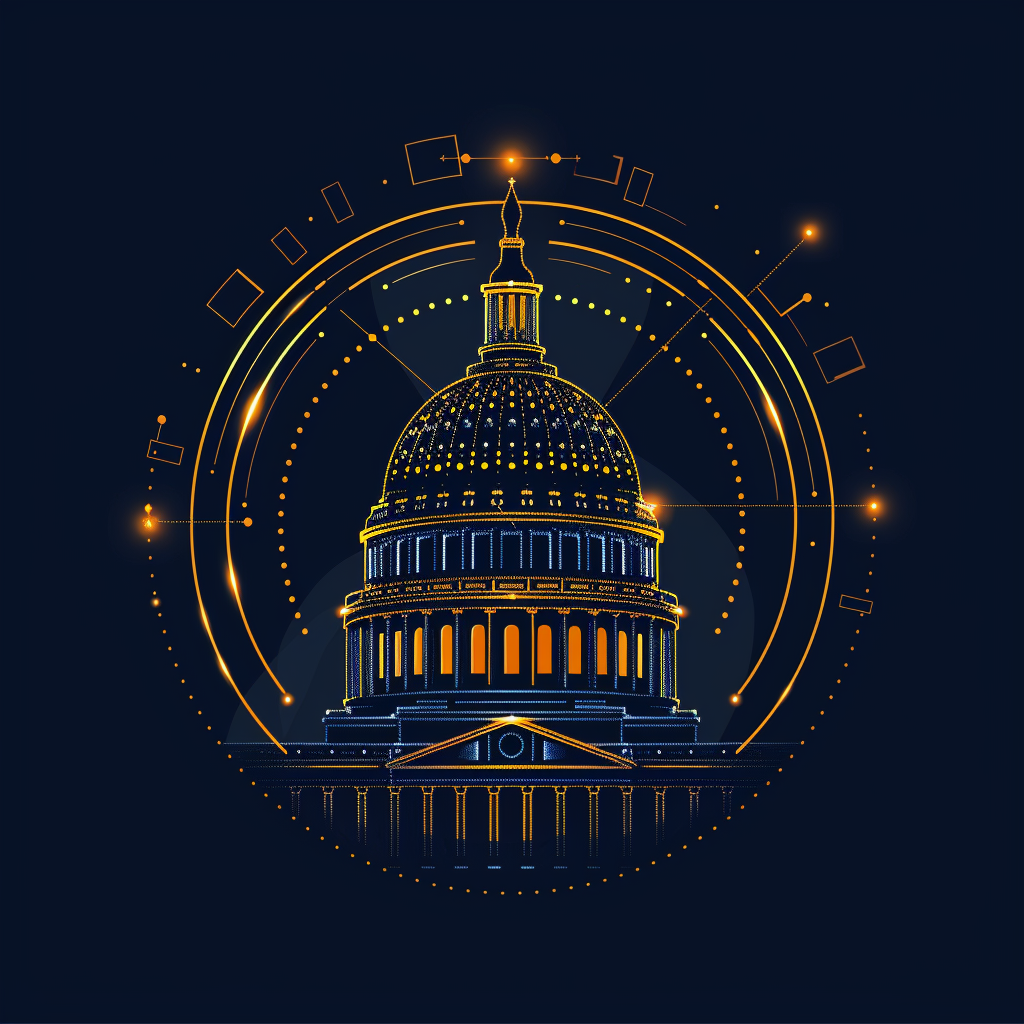
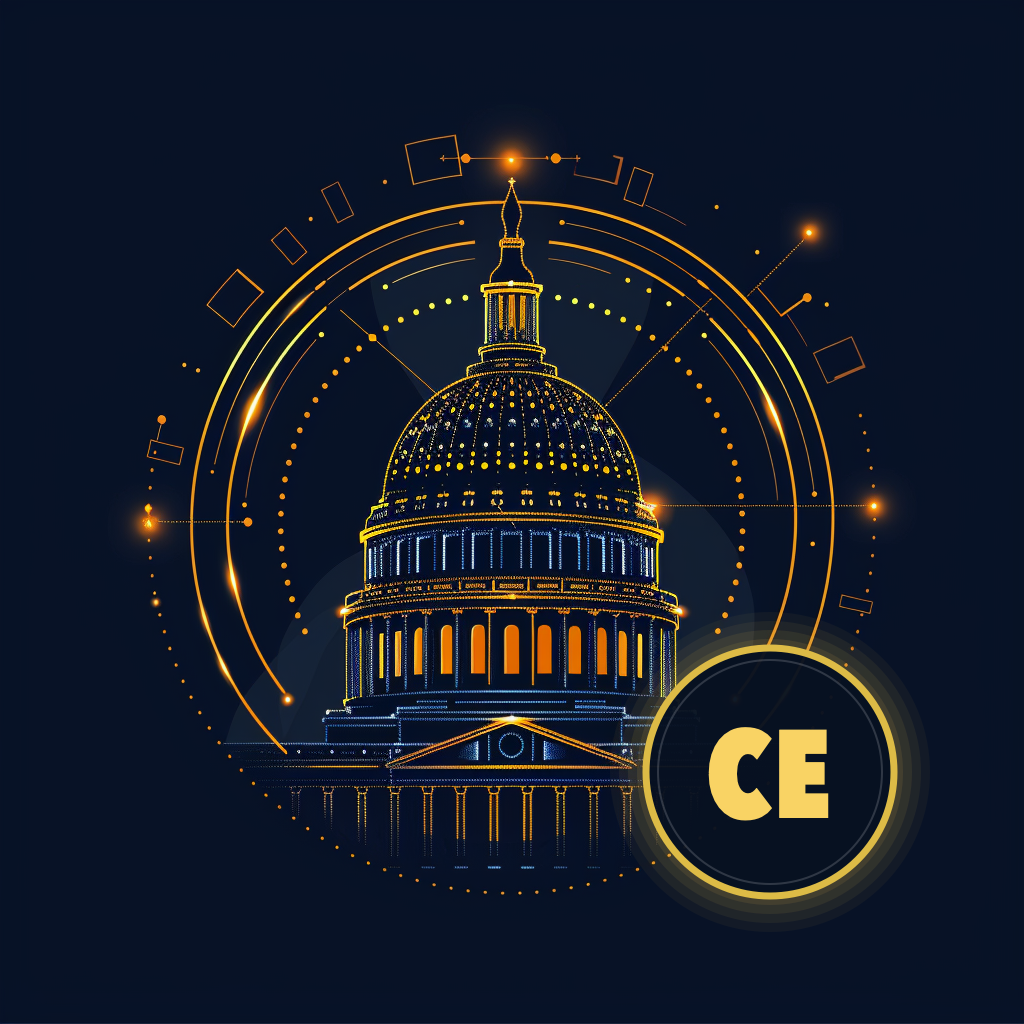
Update Capitol Ledger CE branding

Changed region(s): [[0.5938, 0.5938, 0.9062, 0.9062]]

diff --git a/app/globals.css b/app/globals.css
@@ -72,7 +72,7 @@ select {
 }
 
 .surface {
-  border: 1px solid rgba(246, 216, 75, 0.18);
+  border: 1px solid rgba(212, 175, 55, 0.18);
   background:
     linear-gradient(145deg, rgba(255, 255, 255, 0.12), rgba(255, 255, 255, 0.035)),
     linear-gradient(180deg, rgba(43, 141, 255, 0.1), rgba(7, 18, 37, 0.22));
@@ -82,7 +82,7 @@ select {
 
 .metric-bar {
   background:
-    linear-gradient(90deg, rgba(246, 216, 75, 0.58), rgba(43, 141, 255, 0.58)),
+    linear-gradient(90deg, rgba(212, 175, 55, 0.6), rgba(43, 141, 255, 0.58)),
     repeating-linear-gradient(90deg, transparent 0 18px, rgba(234, 242, 255, 0.08) 18px 19px);
 }
 
@@ -90,12 +90,12 @@ select {
   min-height: calc(100vh - 4rem);
   background:
     radial-gradient(circle at 14% 12%, rgba(43, 141, 255, 0.2), transparent 22rem),
-    radial-gradient(circle at 86% 8%, rgba(246, 216, 75, 0.12), transparent 20rem),
+    radial-gradient(circle at 86% 8%, rgba(212, 175, 55, 0.13), transparent 20rem),
     linear-gradient(180deg, rgba(8, 24, 44, 0.62), rgba(2, 9, 22, 0.96));
 }
 
 .glass-card {
-  border: 1px solid rgba(246, 216, 75, 0.18);
+  border: 1px solid rgba(212, 175, 55, 0.18);
   background:
     linear-gradient(145deg, rgba(255, 255, 255, 0.13), rgba(255, 255, 255, 0.035)),
     linear-gradient(180deg, rgba(43, 141, 255, 0.08), rgba(2, 9, 22, 0.26));
@@ -108,7 +108,7 @@ select {
   overflow: hidden;
   border: 1px solid rgba(87, 199, 255, 0.18);
   background:
-    linear-gradient(135deg, rgba(87, 199, 255, 0.1), rgba(246, 216, 75, 0.055)),
+    linear-gradient(135deg, rgba(87, 199, 255, 0.1), rgba(212, 175, 55, 0.065)),
     rgba(3, 10, 24, 0.76);
 }
 
@@ -130,7 +130,7 @@ select {
 
 .gold-line {
   height: 1px;
-  background: linear-gradient(90deg, transparent, rgba(246, 216, 75, 0.86), rgba(255, 138, 0, 0.74), transparent);
+  background: linear-gradient(90deg, transparent, rgba(212, 175, 55, 0.9), rgba(255, 138, 0, 0.74), transparent);
 }
 
 .orbital-mark {
@@ -141,7 +141,7 @@ select {
 .orbital-mark::after {
   position: absolute;
   inset: 10%;
-  border: 1px solid rgba(246, 216, 75, 0.32);
+  border: 1px solid rgba(212, 175, 55, 0.34);
   border-radius: 999px;
   content: "";
 }
@@ -154,13 +154,13 @@ select {
 
 .heat-cell {
   min-height: 2.65rem;
-  border: 1px solid rgba(246, 216, 75, 0.16);
+  border: 1px solid rgba(212, 175, 55, 0.17);
   border-radius: 0.45rem;
   background: rgba(255, 255, 255, 0.05);
 }
 
 .heat-cell-hot {
-  background: linear-gradient(145deg, rgba(255, 138, 0, 0.88), rgba(246, 216, 75, 0.38));
+  background: linear-gradient(145deg, rgba(255, 138, 0, 0.82), rgba(212, 175, 55, 0.42));
   box-shadow: 0 0 28px rgba(255, 138, 0, 0.28);
 }
 
@@ -170,7 +170,7 @@ select {
 }
 
 .device-shell {
-  border: 1px solid rgba(246, 216, 75, 0.22);
+  border: 1px solid rgba(212, 175, 55, 0.23);
   background:
     linear-gradient(145deg, rgba(255, 255, 255, 0.16), rgba(255, 255, 255, 0.02)),
     #030a18;
@@ -190,7 +190,7 @@ select {
 }
 
 .text-stone-800 {
-  color: #f6d84b !important;
+  color: #d4af37 !important;
 }
 
 .bg-white {
@@ -202,7 +202,7 @@ select {
 }
 
 .border-line {
-  border-color: rgba(246, 216, 75, 0.16) !important;
+  border-color: rgba(212, 175, 55, 0.17) !important;
 }
 
 .surface .text-ink,

diff --git a/app/map/page.tsx b/app/map/page.tsx
@@ -74,8 +74,8 @@ export default function MapPage({ searchParams }: { searchParams?: { level?: str
             <header className="mt-10 flex items-center justify-between">
               <Link href="/dashboard" className="flex items-center gap-3">
                 <Image src="/capitol-ledger-logo.png" alt="" width={40} height={40} className="h-10 w-10 rounded-full object-cover" />
-                <div className="whitespace-nowrap text-[17px] font-semibold uppercase tracking-[0.22em] text-white">
-                  Capitol <span className="text-[#ffb12b]">Ledger</span>
+                <div className="whitespace-nowrap text-[17px] font-semibold uppercase tracking-normal text-white">
+                  Capitol <span className="text-brass">Ledger</span> <span className="text-brass/85">CE</span>
                 </div>
               </Link>
               <Link href="/alerts" className={`relative ${mobileIconButtonClass}`} aria-label="Alerts">

diff --git a/app/onboarding/page.tsx b/app/onboarding/page.tsx
@@ -50,8 +50,8 @@ export default function OnboardingPage() {
                   <span className="absolute inset-[-6px] rounded-full border border-[#ffb12b]/42" />
                   <Image src="/capitol-ledger-logo.png" alt="" width={92} height={92} className="h-[90px] w-[90px] rounded-full object-cover" />
                 </div>
-                <div className="min-w-0 whitespace-nowrap text-[16px] font-semibold uppercase tracking-[0.2em] text-white/86">
-                  Capitol <span className="text-brass">Ledger</span>
+                <div className="min-w-0 whitespace-nowrap text-[16px] font-semibold uppercase tracking-normal text-white/86">
+                  Capitol <span className="text-brass">Ledger</span> <span className="text-brass/85">CE</span>
                 </div>
               </div>
               <Link href="/dashboard" className={`${mobileViewAllClass} shrink-0 px-4 py-2 text-[14px] text-white/72`}>

diff --git a/app/sign-in/page.tsx b/app/sign-in/page.tsx
@@ -32,8 +32,8 @@ export default function SignInPage({ searchParams }: { searchParams?: { mode?: s
                   <span className="absolute inset-[-5px] rounded-full border border-[#ffb12b]/42" />
                   <Image src="/capitol-ledger-logo.png" alt="" width={78} height={78} className="h-[76px] w-[76px] rounded-full object-cover" />
                 </div>
-                <div className="min-w-0 whitespace-nowrap text-[15px] font-semibold uppercase tracking-[0.2em] text-white/86">
-                  Capitol <span className="text-brass">Ledger</span>
+                <div className="min-w-0 whitespace-nowrap text-[15px] font-semibold uppercase tracking-normal text-white/86">
+                  Capitol <span className="text-brass">Ledger</span> <span className="text-brass/85">CE</span>
                 </div>
               </div>
               {allowDemoMode ? (

diff --git a/components/dashboard-client.tsx b/components/dashboard-client.tsx
@@ -266,8 +266,8 @@ export function DashboardClient({ data }: { data: DashboardData }) {
                     className="h-[90px] w-[90px] rounded-full object-cover"
                   />
                 </div>
-                <div className="whitespace-nowrap text-[16px] font-semibold uppercase tracking-[0.2em] text-white/86">
-                  Capitol <span className="text-brass">Ledger</span>
+                <div className="whitespace-nowrap text-[16px] font-semibold uppercase tracking-normal text-white/86">
+                  Capitol <span className="text-brass">Ledger</span> <span className="text-brass/85">CE</span>
                 </div>
               </div>
               <Link

diff --git a/components/site-header.tsx b/components/site-header.tsx
@@ -50,7 +50,7 @@ export function SiteHeader() {
             height={40}
             className="h-10 w-10 rounded-md border border-brass/40 bg-ink object-cover shadow-glow"
           />
-          <span className="hidden text-sm tracking-wide sm:inline sm:text-base">Capitol Ledger</span>
+          <span className="hidden text-sm tracking-normal sm:inline sm:text-base">Capitol <span className="text-brass">Ledger</span> <span className="text-brass/85">CE</span></span>
         </Link>
         <nav className="flex items-center gap-1">
           {navItems.map((item) => {

diff --git a/tailwind.config.ts b/tailwind.config.ts
@@ -14,14 +14,14 @@ const config: Config = {
         line: "#274464",
         civic: "#2B8DFF",
         rust: "#FF8A00",
-        brass: "#F6D84B",
+        brass: "#D4AF37",
         aurora: "#57C7FF",
         vault: "#020916",
         mist: "#EAF2FF"
       },
       boxShadow: {
         panel: "0 24px 80px rgba(0, 0, 0, 0.36)",
-        glow: "0 0 40px rgba(246, 216, 75, 0.22), 0 0 80px rgba(43, 141, 255, 0.12)"
+        glow: "0 0 40px rgba(212, 175, 55, 0.24), 0 0 80px rgba(43, 141, 255, 0.12)"
       }
     }
   },

diff --git a/app/api/members/[bioguideId]/email/route.ts b/app/api/members/[bioguideId]/email/route.ts
@@ -20,7 +20,7 @@ const emailRequestSchema = z.object({
 const OFFICIAL_MESSAGE_COOLDOWN_MS = 3 * 24 * 60 * 60 * 1000;
 
 function appName() {
-  return process.env.NEXT_PUBLIC_APP_NAME || "Capitol Ledger";
+  return process.env.NEXT_PUBLIC_APP_NAME || "Capitol Ledger CE";
 }
 
 function webhookModeEnabled() {

diff --git a/app/layout.tsx b/app/layout.tsx
@@ -3,7 +3,7 @@ import "./globals.css";
 import { SiteHeader } from "@/components/site-header";
 
 export const metadata: Metadata = {
-  title: "Capitol Ledger",
+  title: "Capitol Ledger CE",
   description: "Track federal lawmakers, bills, votes, and saved legislative updates."
 };
 
